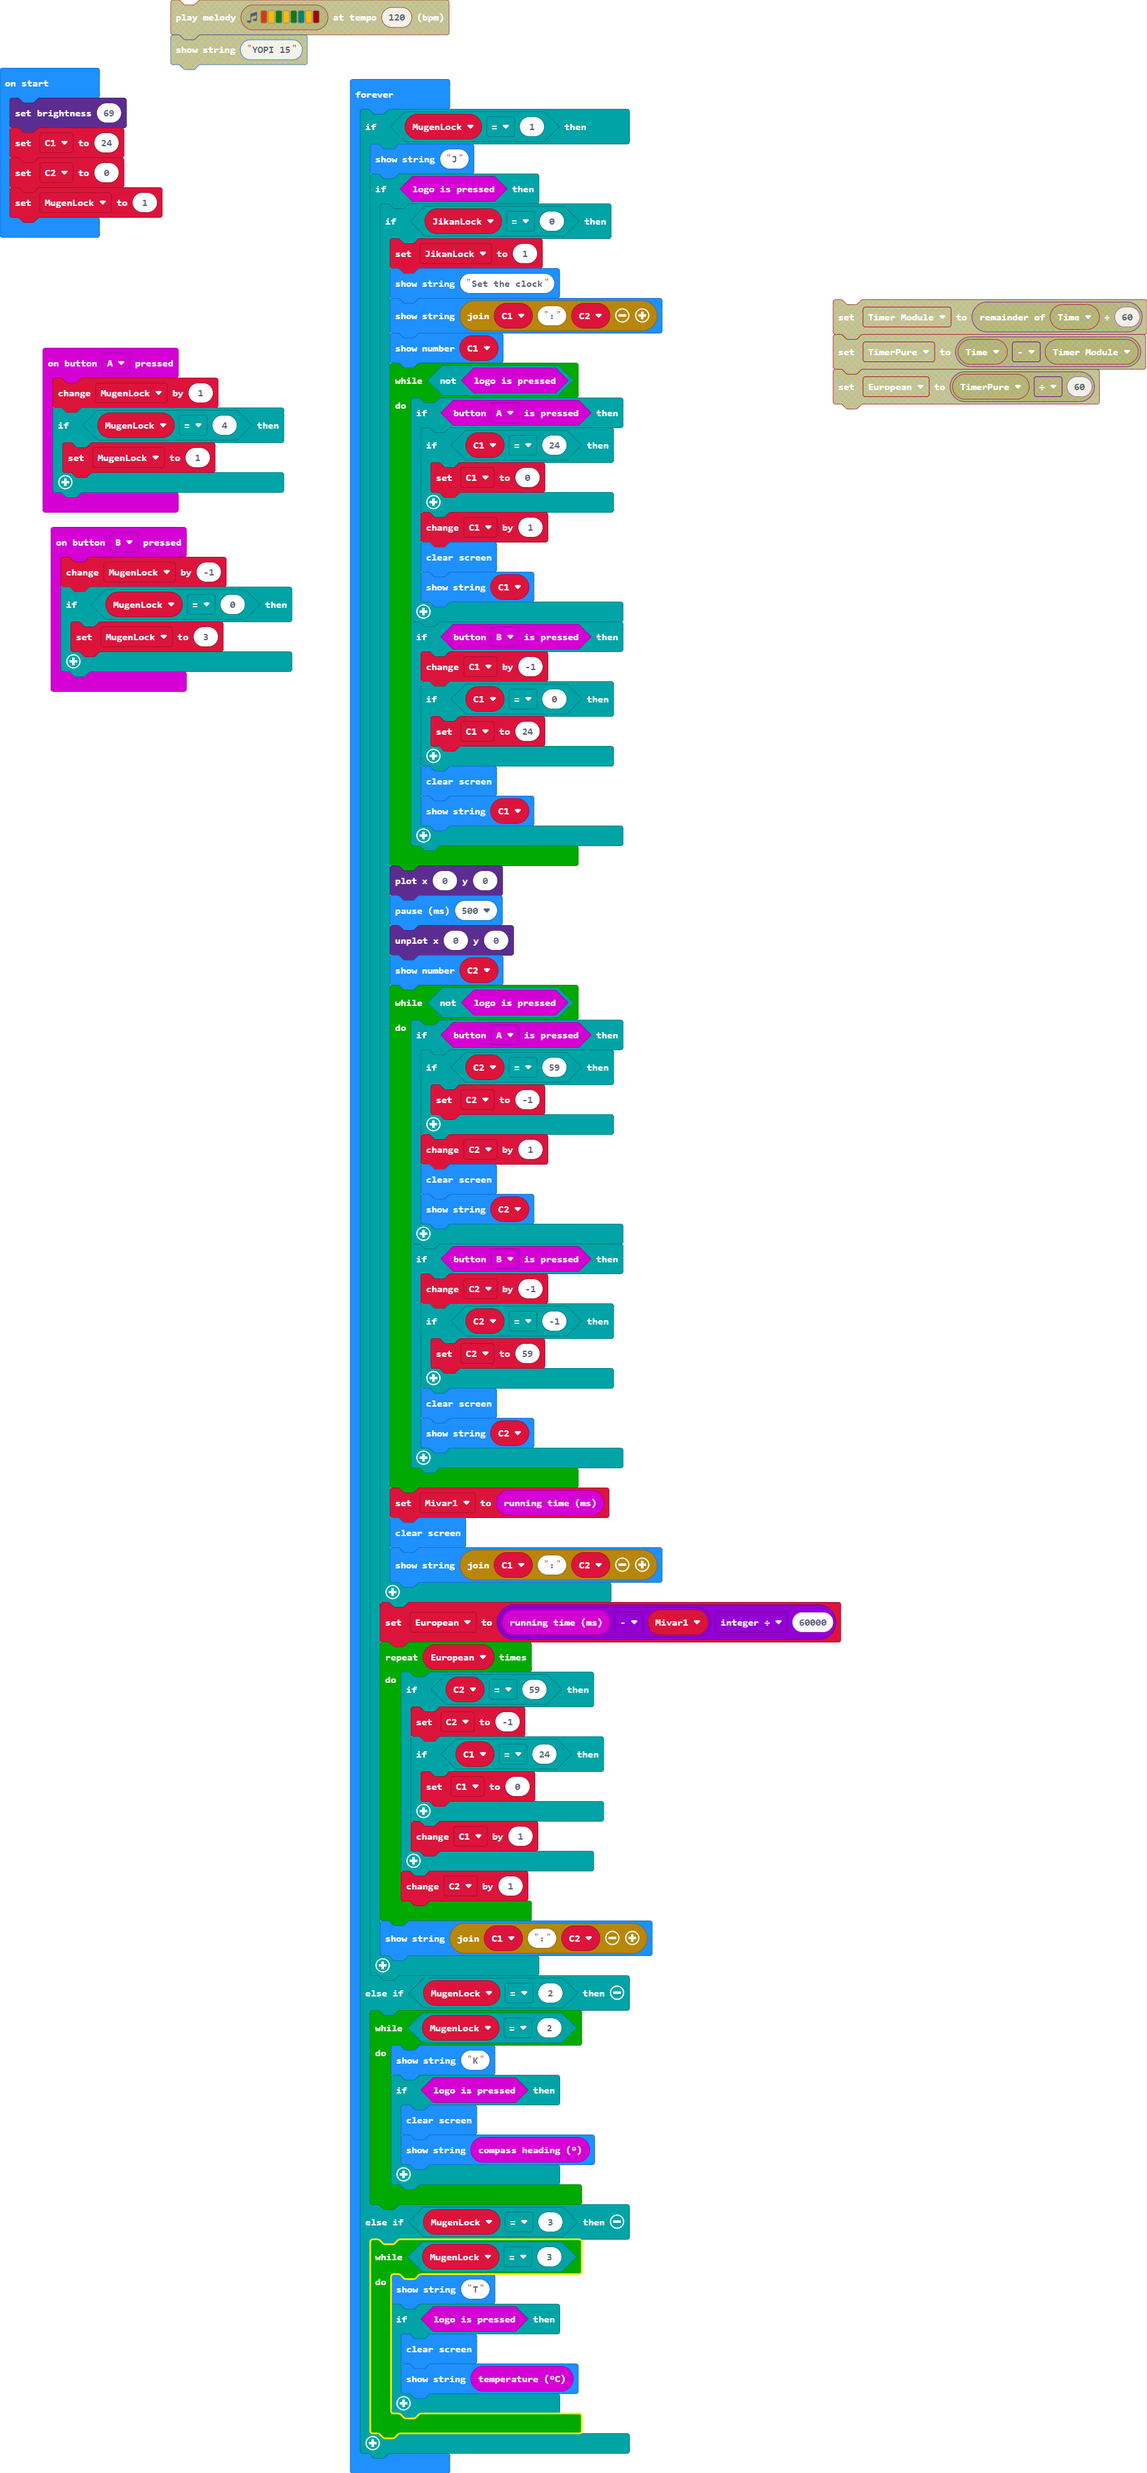
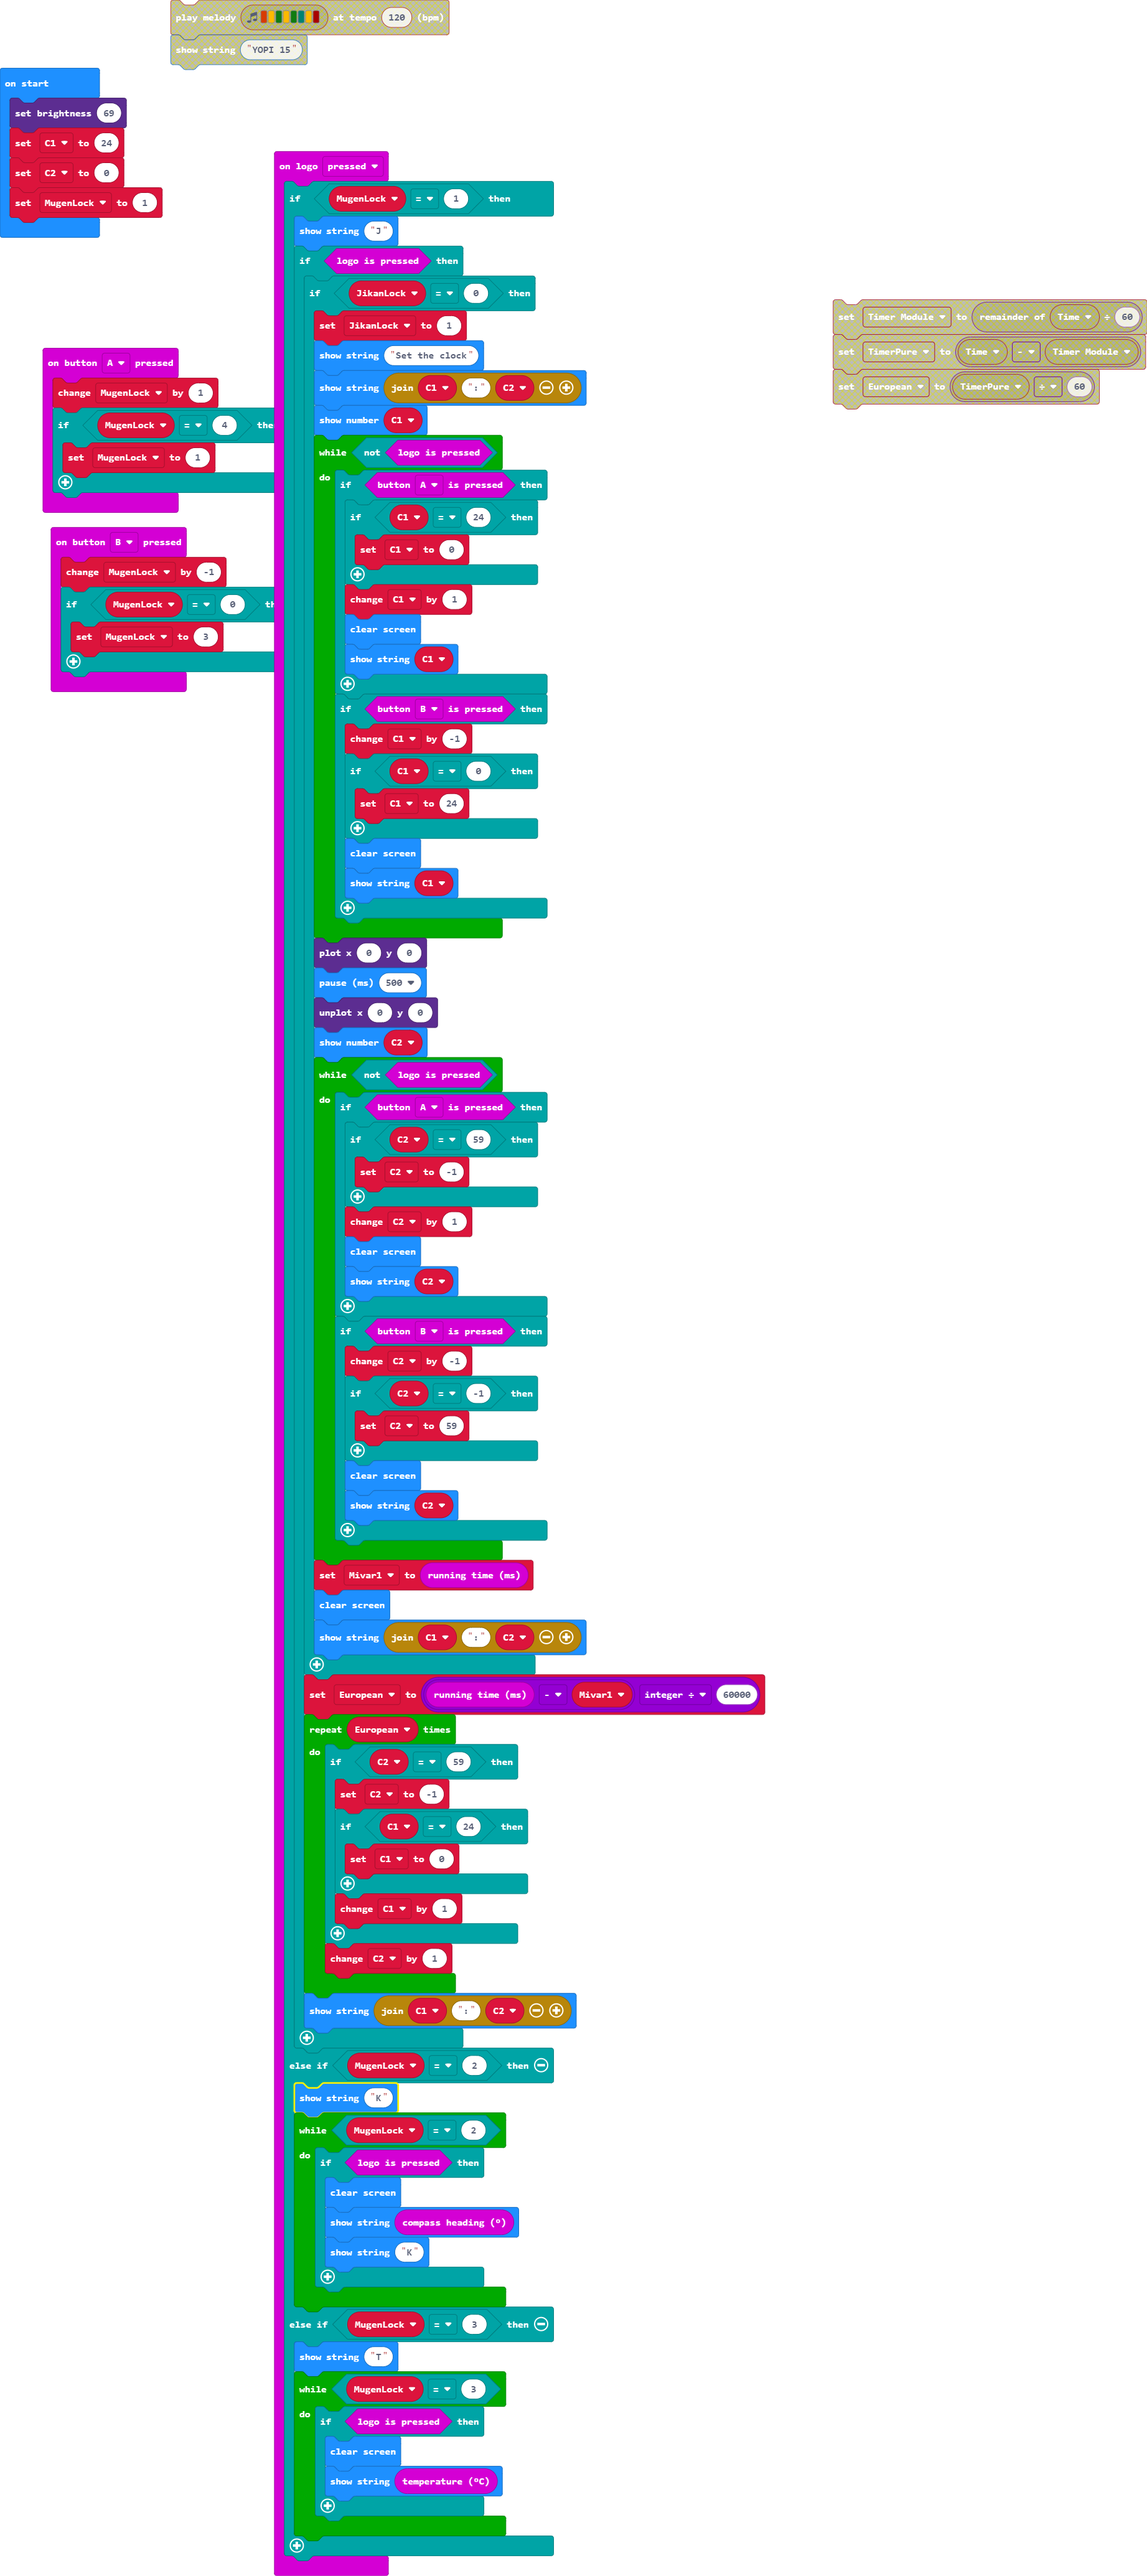
Update main.blocks, main.ts

Changed region(s): [[0.0309, 0.0, 0.7423, 1.0], [0.7113, 0.0936, 1.0, 0.1872], [0.0, 0.0312, 0.1546, 0.0936]]

diff --git a/main.ts b/main.ts
@@ -10,15 +10,7 @@ input.onButtonPressed(Button.B, function () {
         MugenLock = 3
     }
 })
-let European = 0
-let Mivar1 = 0
-let JikanLock = 0
-let MugenLock = 0
-led.setBrightness(69)
-let C1 = 24
-let C2 = 0
-MugenLock = 1
-basic.forever(function () {
+input.onLogoEvent(TouchButtonEvent.Pressed, function () {
     if (MugenLock == 1) {
         basic.showString("J")
         if (input.logoIsPressed()) {
@@ -85,16 +77,17 @@ basic.forever(function () {
             basic.showString("" + C1 + ":" + C2)
         }
     } else if (MugenLock == 2) {
+        basic.showString("K")
         while (MugenLock == 2) {
-            basic.showString("K")
             if (input.logoIsPressed()) {
                 basic.clearScreen()
                 basic.showString("" + (input.compassHeading()))
+                basic.showString("K")
             }
         }
     } else if (MugenLock == 3) {
+        basic.showString("T")
         while (MugenLock == 3) {
-            basic.showString("T")
             if (input.logoIsPressed()) {
                 basic.clearScreen()
                 basic.showString("" + (input.temperature()))
@@ -102,3 +95,13 @@ basic.forever(function () {
         }
     }
 })
+let European = 0
+let Mivar1 = 0
+let JikanLock = 0
+let MugenLock = 0
+let C2 = 0
+let C1 = 0
+led.setBrightness(69)
+C1 = 24
+C2 = 0
+MugenLock = 1
